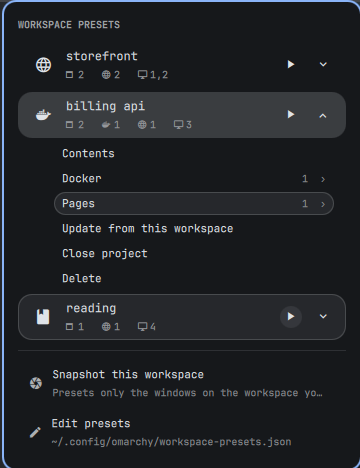
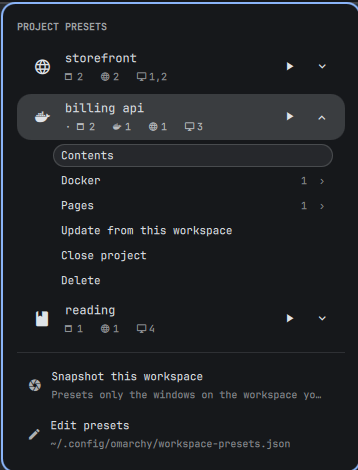
Call it Project Presets
A workspace in Hyprland is one numbered desktop. A preset here spans several,
and placing windows on the right one is a fifth of what it does — so the old
name promised something smaller than the plugin, and something else. The panel's
own buttons had been saying project all along: Close project, Example project.

The plugin id, the IPC name and the config file keep the old word. They are what
an install and a keybinding are addressed by, and breaking both for a word
nobody types is not a trade worth making.

Preview retaken: the header is in it.

diff --git a/BarWidget.qml b/BarWidget.qml
@@ -4,7 +4,7 @@ import Quickshell.Io
 import qs.Commons
 import qs.Ui
 
-// Bar entry point for Workspace Presets. Owns the icon in the bar and hosts
+// Bar entry point for Project Presets. Owns the icon in the bar and hosts
 // the preset list; Panel.qml owns everything inside the popup.
 //
 // The forwarding below is the shape the bar requires of a widget that has a
@@ -84,7 +84,7 @@ BarWidget {
     bar: root.bar
     text: root.icon
     fontSize: Style.font.icon
-    tooltipText: "Workspace presets"
+    tooltipText: "Project presets"
     onPressed: function (buttonCode) {
       if (buttonCode === Qt.LeftButton) root.togglePanel()
     }

diff --git a/Model.js b/Model.js
@@ -1,6 +1,6 @@
 .pragma library
 
-// Pure logic for Workspace Presets: parsing the user's JSON, deciding which
+// Pure logic for Project Presets: parsing the user's JSON, deciding which
 // apps still need launching, and building the Lua expressions this Hyprland
 // takes. No QML types in here, so every rule below is testable with plain
 // node — see scripts/test-model.

diff --git a/README.md b/README.md
@@ -1,8 +1,15 @@
-# Workspace Presets
+# Project Presets
 
 A bar widget for Omarchy Quattro. Click it, pick a project, and every app in
 that preset opens on the workspace you assigned it — without the screen
 following along while they start.
+
+It was called Workspace Presets until it was pointed out that a workspace in
+Hyprland is one numbered desktop, while a preset here spans several — and that
+the panel's own buttons had been saying *project* all along. The plugin id, the
+IPC name and the config file keep the old word on purpose: they are what an
+install and a keybinding are addressed by, and renaming them would break both
+for the sake of a word nobody types.
 
 ## Requirements
 
